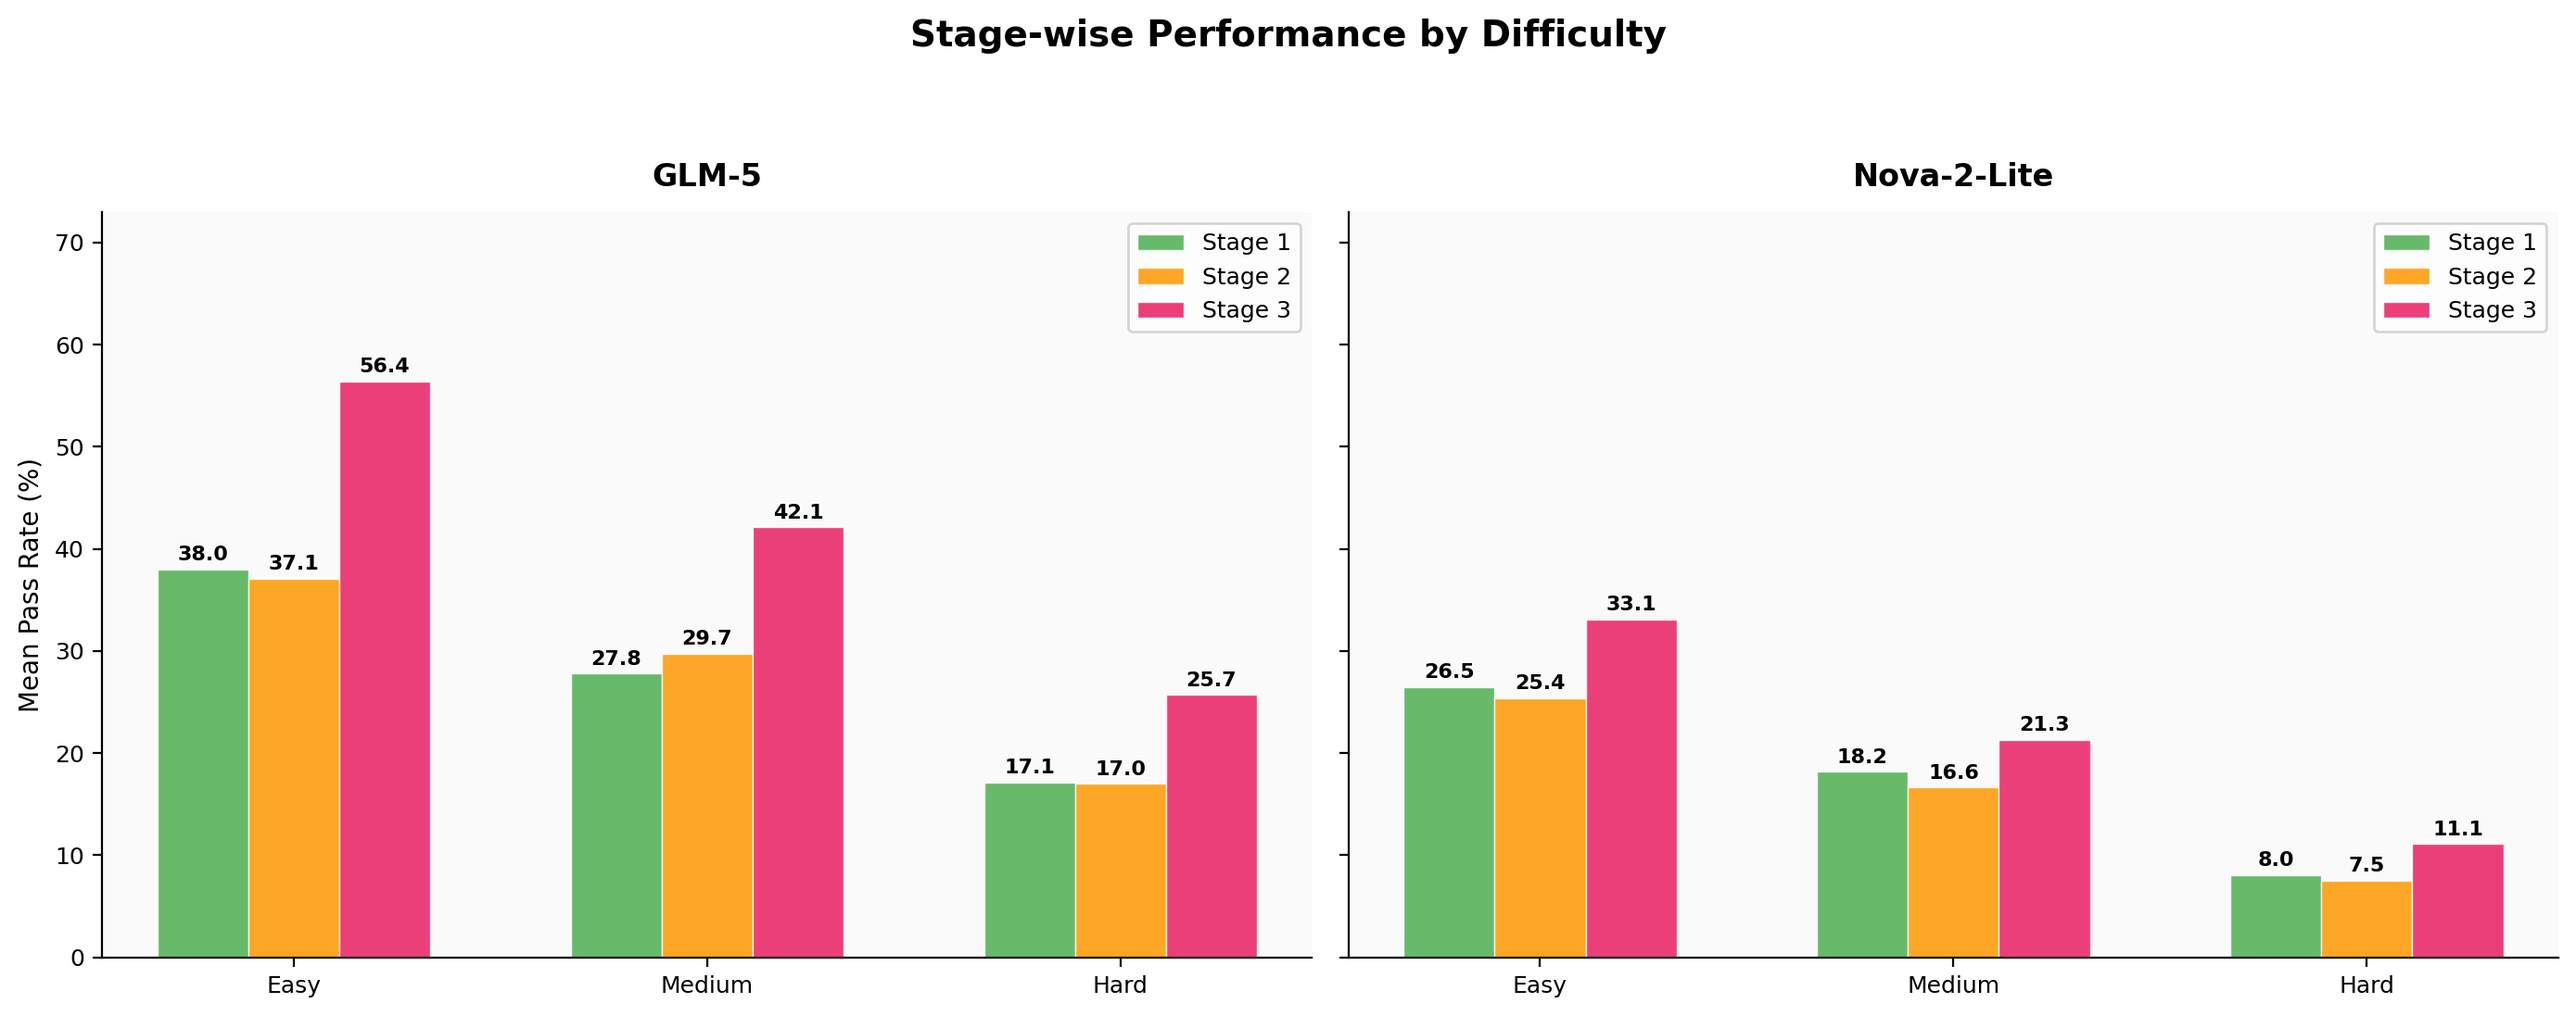
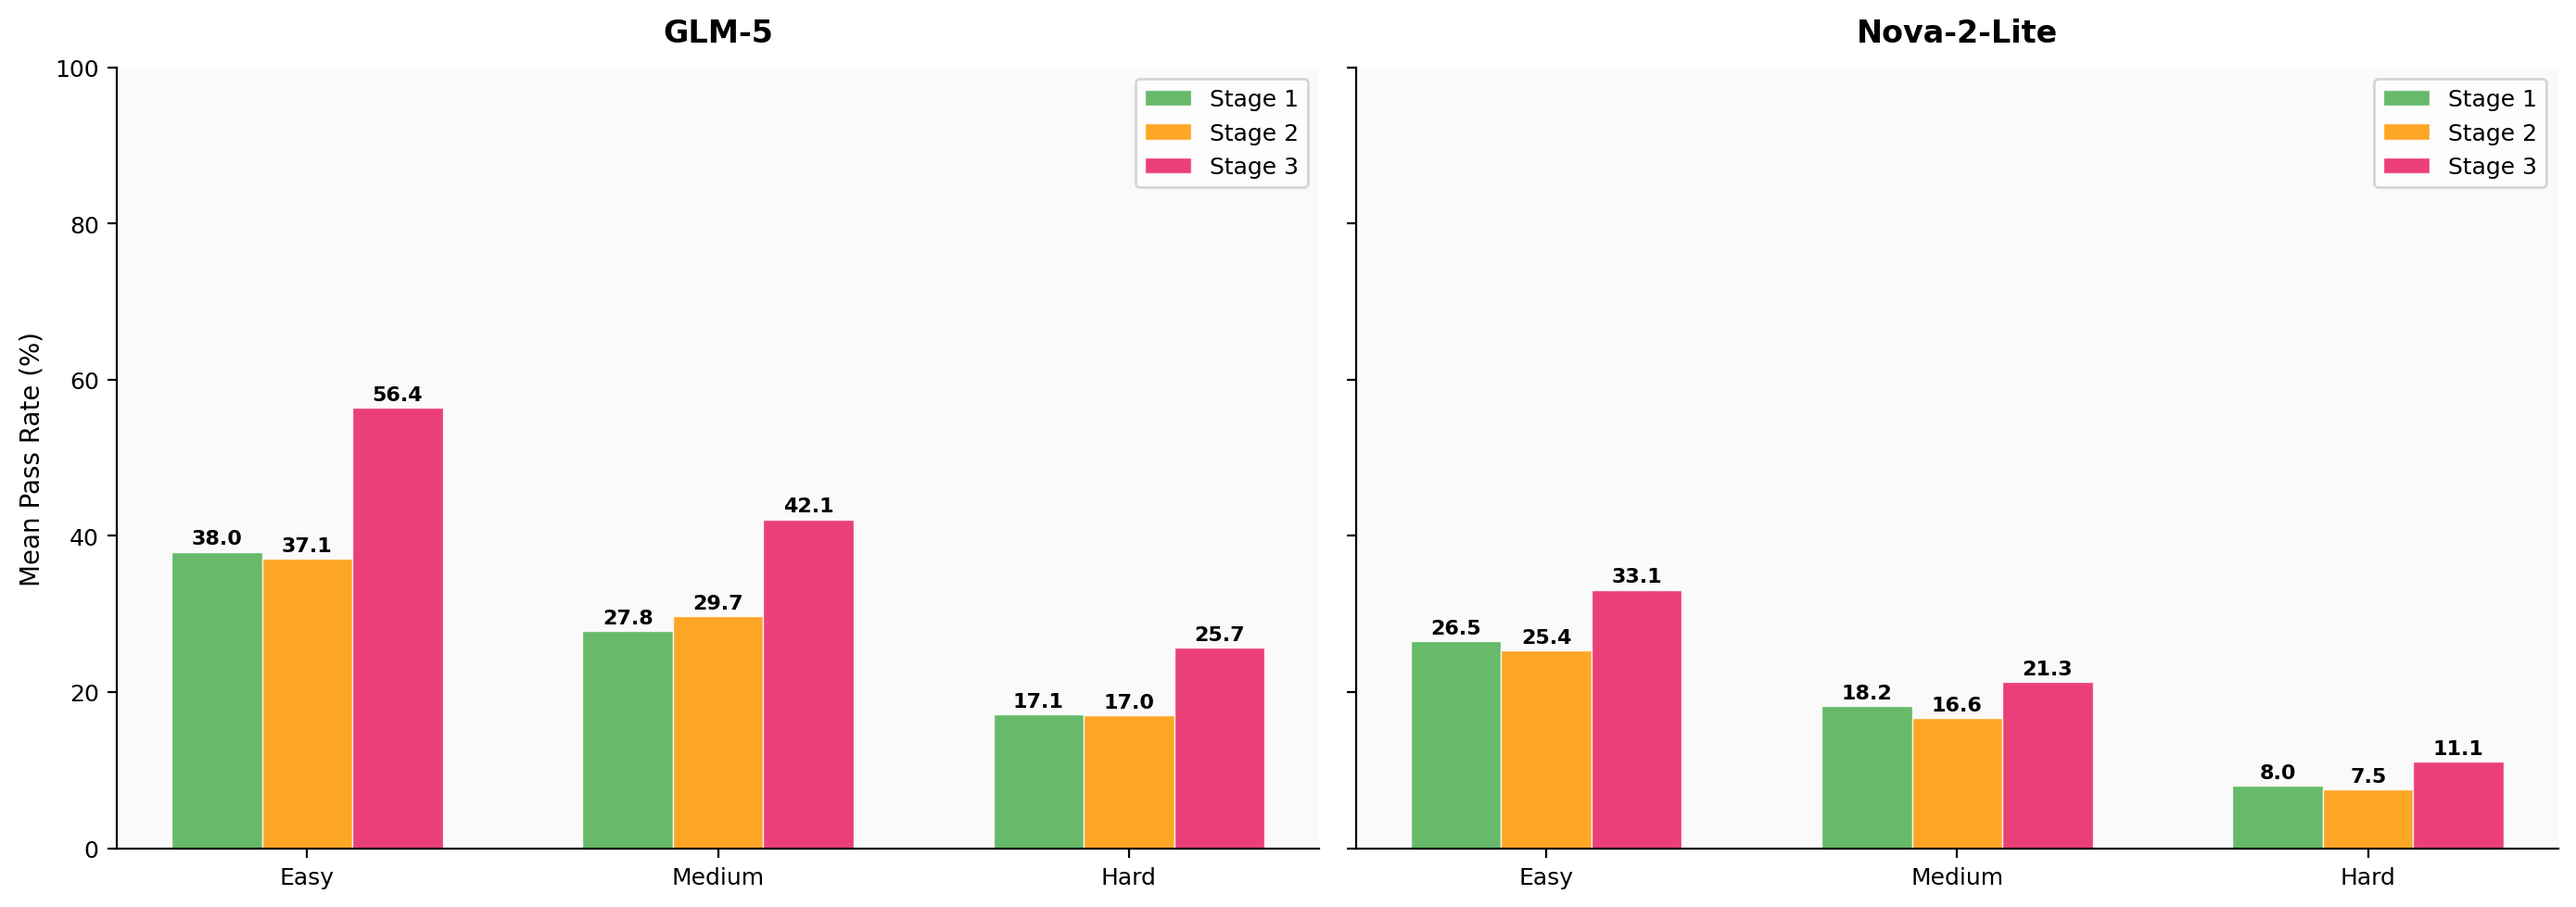
[Update] Updated the kaiju issues.

diff --git a/custom_addons/valkyrie_dashboard/static/src/portal/js/valkyrie_portal.js b/custom_addons/valkyrie_dashboard/static/src/portal/js/valkyrie_portal.js
@@ -243,7 +243,11 @@
         document.addEventListener("click", function (e) {
             var trigger = e.target.closest(".vk-chart-trigger");
             if (!trigger) return;
-            var img = trigger.querySelector("img");
+            var imgs = trigger.querySelectorAll("img");
+            var img = null;
+            for (var i = 0; i < imgs.length; i++) {
+                if (window.getComputedStyle(imgs[i]).display !== "none") { img = imgs[i]; break; }
+            }
             if (!img) return;
             var fig = trigger.closest("figure");
             var caption = fig ? (fig.querySelector("figcaption") || {}).textContent : "";

diff --git a/custom_addons/kaiju_dashboard/static/src/portal/js/kaiju_portal.js b/custom_addons/kaiju_dashboard/static/src/portal/js/kaiju_portal.js
@@ -252,7 +252,8 @@
 
   const openLightbox = (trigger) => {
     if (!lightbox) return;
-    const img = trigger.querySelector('img');
+    const img = trigger.querySelector('img:not([style*="display: none"])') ||
+                Array.from(trigger.querySelectorAll('img')).find(i => getComputedStyle(i).display !== 'none');
     const figcap = trigger.closest('figure')?.querySelector('figcaption');
     if (!img) return;
     lightboxImg.src = img.currentSrc || img.src;
